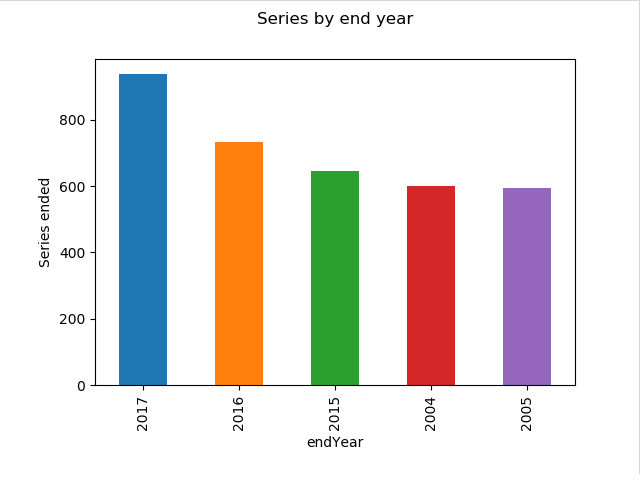
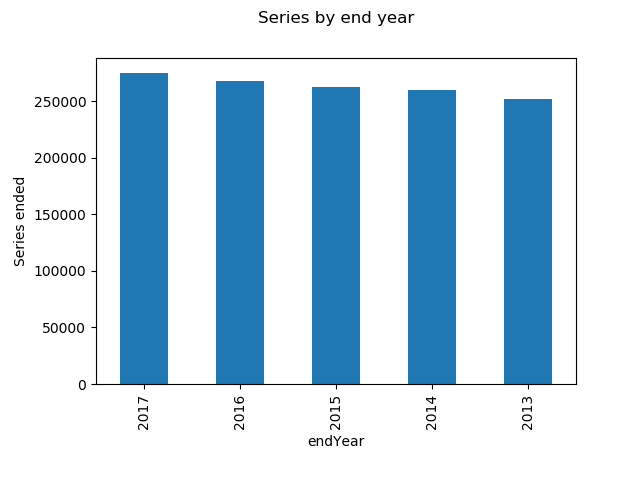
.

diff --git a/assignment_4/imdb_questions.py b/assignment_4/imdb_questions.py
@@ -4,19 +4,14 @@ import numpy as np
 import random
 import matplotlib.pyplot as plt
 
+
 imdb_csv = pd.read_table(webget.download("https://datasets.imdbws.com/title.basics.tsv.gz"), compression="gzip", sep="\t", dtype={"startYear" : str})
-
-
-# This part is dumb, need to figure out a smarter way of doing it. It basically just removes all the rows with \N in them
-# The 'r' before the string produces a raw string, and without it, the '\N' will be interpreted as an escape character
-imdb_csv = imdb_csv[imdb_csv.startYear != r"\N"]
-imdb_csv = imdb_csv[imdb_csv.endYear != r"\N"]
-imdb_csv = imdb_csv[imdb_csv.runtimeMinutes != r"\N"]
-imdb_csv = imdb_csv[imdb_csv.genres != r"\N"]
 
 # Question 1: Which year was the most movies released?
 def question_1():
-    top_ten_years = imdb_csv.groupby("startYear")["startYear"].count().sort_values(ascending=False).head(10).plot.bar()
+    imdb_csv_filtered = imdb_csv[imdb_csv.startYear != r"\N"]
+
+    top_ten_years = imdb_csv_filtered.groupby("startYear")["startYear"].count().sort_values(ascending=False).head(10).plot.bar()
 
     # Small fix for the bottom of the graph so that the graph doesn't go too much outside the window
     plt.subplots_adjust(bottom=0.2, left=0.15)
@@ -24,11 +19,14 @@ def question_1():
     plt.title("Number of movies released for each year", fontsize=12, y=1.08)
     plt.xticks(rotation=90)
     plt.ylabel("Movies released")
-    plt.show()
+    plt.savefig("imdb_question_1.png")
+
 
 #Question 2: Which year was the most series ended?
 def question_2():
-    top_5 = imdb_csv.groupby("endYear")["endYear"].count().sort_values(ascending=False).head(5).plot.bar()
+    imdb_csv_filtered = imdb_csv[imdb_csv.endYear != r"\N"]
+
+    top_5 = imdb_csv_filtered.groupby("endYear")["endYear"].count().sort_values(ascending=False).head(5).plot.bar()
 
     # Small fix for the bottom of the graph so that the graph doesn't go too much outside the window
     plt.subplots_adjust(bottom=0.2, left=0.15)
@@ -36,32 +34,38 @@ def question_2():
     plt.title("Series by end year", fontsize=12, y=1.08)
     plt.xticks(rotation=90)
     plt.ylabel("Series ended")
-    plt.show()
+    plt.savefig("imdb_question_2.png")
 
     
 # Question 3: Which genres has the longest runtime per movies?
 def question_3():
-    sum_minutes_genres = imdb_csv.groupby("genres")["runtimeMinutes"].sum()
-    count_film_genres = imdb_csv.groupby("genres")["genres"].count()
+    imdb_csv_filtered = imdb_csv[imdb_csv.runtimeMinutes != r"\N"]
+
+    sum_minutes_genres = imdb_csv_filtered.groupby("genres")["runtimeMinutes"].sum()
+    count_film_genres = imdb_csv_filtered.groupby("genres")["genres"].count()
 
     runtime_per_genre = []
     for genre in count_film_genres.index:
         runtime_per_genre.append((genre, round(sum_minutes_genres.loc[genre] / count_film_genres.loc[genre], 2)))
-        
- 
 
 
 # Question 4: Which genre covers the most movies?
 def question_4():
-    top_genres = imdb_csv.groupby("genres")["genres"].count().sort_values(ascending=False).head(15).plot.bar()
-    plt.subplots_adjust(bottom=0.2, left=0.15)
+    imdb_csv_filtered = imdb_csv[imdb_csv.genres != r"\N"]
+
+    top_genres = imdb_csv_filtered.groupby("genres")["genres"].count().sort_values(ascending=False).head(15).plot.bar()
+    plt.subplots_adjust(bottom=0.3, left=0.15)
     plt.title("Movies By genre", fontsize=12, y=1.08)
     plt.xticks(rotation=90)
     plt.ylabel("Movies released")
-    plt.show()
+    plt.savefig("imdb_question_4.png")
+
+
 # Question 5: What is the average runtime on adult films?
 def question_5():
-    avg_runtime_adult = np.asarray(imdb_csv.groupby("isAdult").get_group(1)["runtimeMinutes"]).astype(int).mean()
+    imdb_csv_filtered = imdb_csv[imdb_csv.runtimeMinutes != r"\N"]
+
+    avg_runtime_adult = np.asarray(imdb_csv_filtered.groupby("isAdult").get_group(1)["runtimeMinutes"]).astype(int).mean()
     print(round(avg_runtime_adult, 2))
 
 
